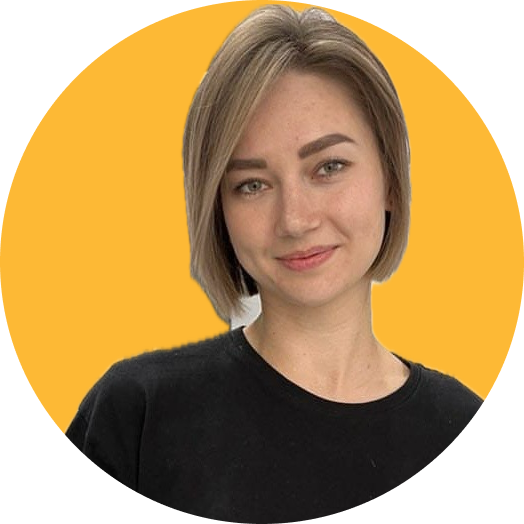
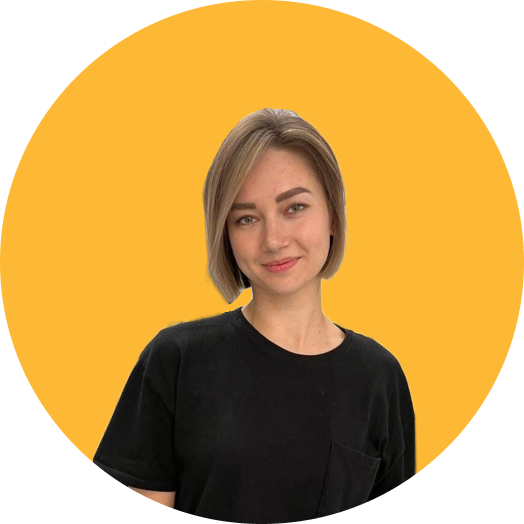
updated photos

Changed region(s): [[0.1221, 0.0, 0.916, 0.916], [0.2443, 0.916, 0.3359, 0.9771], [0.1832, 0.8855, 0.2443, 0.916]]

diff --git a/portfolio/index.html b/portfolio/index.html
@@ -33,7 +33,7 @@
                 <div class="intro-text intro-text--short">
                     <h1>Hello, my name <br>is Nataliia</h1>
                     <p>I'm cheerful and active person. I like to run and cycling. I love code and especially enjoy this
-                        time when I forget about the time.</p>
+                        moment when I forget about the time.</p>
                     <div>
                         <a class="btn btn-primary" href='#projects'>Projects</a>
                         <a class="btn btn-secondary"
@@ -54,8 +54,9 @@
             <div class="project">
                 <div class="project-details">
                     <p class="project__name">Terrarium</p>
-                    <p class="project__desc">A small drag and drop code-meditation by using HTML5, JS and CSS (no
-                        frameworks or libraries used).<br><br>Press on the picture and try it.</p>
+                    <p class="project__desc">An interactive terrarium project created by the JavaScript, HTML5 and CSS
+                        that allow a user to manipulate the plants on the page (no drag and drop API, frameworks or
+                        libraries used).<br><br>Press on the picture and try it.</p>
                     <a class="btn btn-view-project-code" target="_blank"
                         href="https://github.com/samulikn/web-dev-for-beginners/tree/main/terrarium">View Project</a>
                 </div>
@@ -73,9 +74,10 @@
                 </div>
                 <div class="project-details">
                     <p class="project__name">Typing game</p>
-                    <p class="project__desc">Created a typing game by using event driven programming. I used JavaScript,
-                        HTML5 and CSS skills I had build up at that moment to create a typing game (no frameworks or
-                        libraries used).<br><br>Press on the picture and try a game.</p>
+                    <p class="project__desc">This typing game is going to test a player's typing skill. The game builded
+                        by using Event-driven programming. To handle events (button clicking, typing, etc.), I
+                        registered event listeners and provided a function to execute. No frameworks or libraries
+                        used.<br><br>Press on the picture and try a game.</p>
                     <a class="btn btn-view-project-code" target="_blank"
                         href="https://github.com/samulikn/web-dev-for-beginners/tree/main/typing-game">View Project</a>
                 </div>
@@ -84,7 +86,7 @@
                 <div class="project-details">
                     <p class="project__name">Space game</p>
                     <p class="project__desc">By using the Canvas elements and cartesian coordinate system were drawed
-                        ships and move them around the screen. Implemented Pub-Sub pattern to create sound game
+                        ships and heir movements around the screen. Implemented Pub-Sub pattern to create sound game
                         architecture for collision detection. Leveraging Async/Await for keeping score. Handling
                         keyboard events to end and restart the game.<br><br>Click on the picture and play the game.</p>
                     <a class="btn btn-view-project-code" target="_blank"
@@ -104,7 +106,7 @@
                 </div>
                 <div class="project-details">
                     <p class="project__name">Tic-Tac-Toe game</p>
-                    <p class="project__desc">It's interactive tic-tac-toe game with React. Writing markup with
+                    <p class="project__desc">It's interactive tic-tac-toe game build with React. Writing markup with
                         JSX.<br><br>Click on the project's picture and try to play the game.</p>
                     <a class="btn btn-view-project-code" target="_blank"
                         href="https://github.com/samulikn/react-projects/tree/main/game-xo/">View Project</a>

diff --git a/portfolio/about.html b/portfolio/about.html
@@ -35,11 +35,11 @@
                 <div class="intro-text intro-text--main">
                     <h2>About me</h2>
                     <p>
-                        Welcome! I'm Nataliia, software developer. I worked as a database developer (SQL,
-                        Oracle) about 5 years and continue my way with front-end web and mobile technologies (JavaScript). You can see
-                        some of my technical work on <a class="gitHub-projects"
-                            href="https://github.com/samulikn">GitHub</a>.<!--<br>My resume can be found 
-                            <a class="gitHub-resume" href="https://samulikn.github.io/cv-shobotova/resume/">here</a>.-->
+                        Welcome! I'm Nataliia, software developer. I have about 5 years experience as a database
+                        developer (SQL, Oracle). During my maternity leave I became to more interest and practice of
+                        front-end web and mobile technologies (HTML, CSS, JavaScript).<br>You can see some of my
+                        technical work on <a class="gitHub-projects" href="https://github.com/samulikn">GitHub</a>.
+                        <!--<br>My resume can be found <a class="gitHub-resume" href="https://samulikn.github.io/cv-shobotova/resume/">here</a>.-->
                     </p>
                     <a class="btn btn-primary" href="https://samulikn.github.io/cv-shobotova/resume/CV.pdf"
                         download="cv-shobotova">Resume</a>
